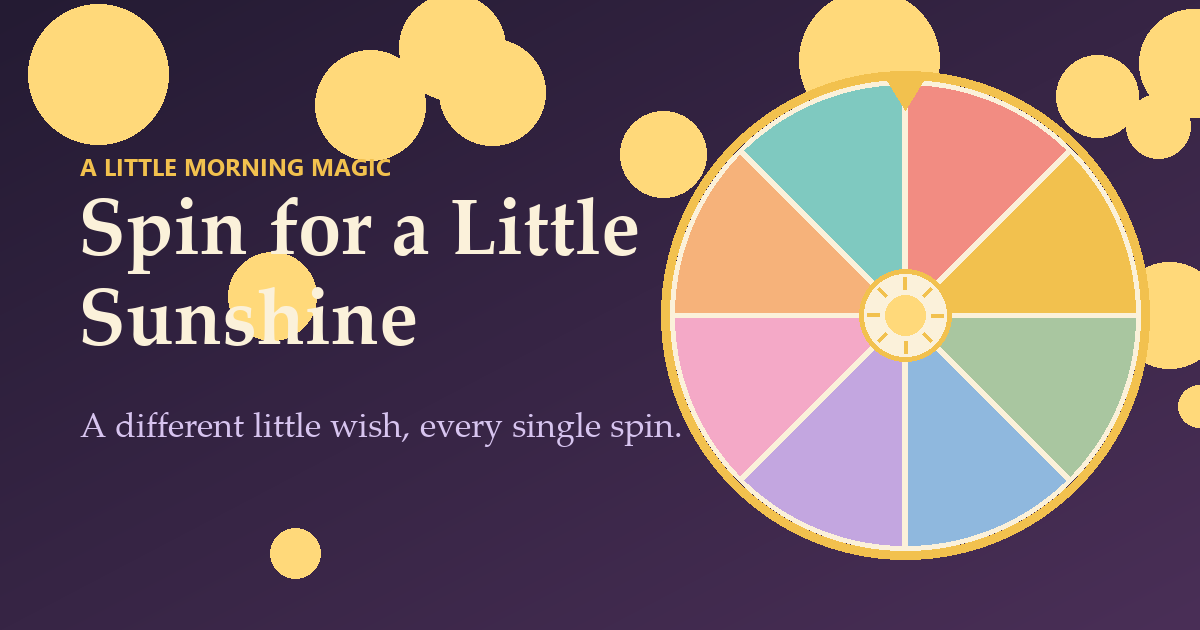
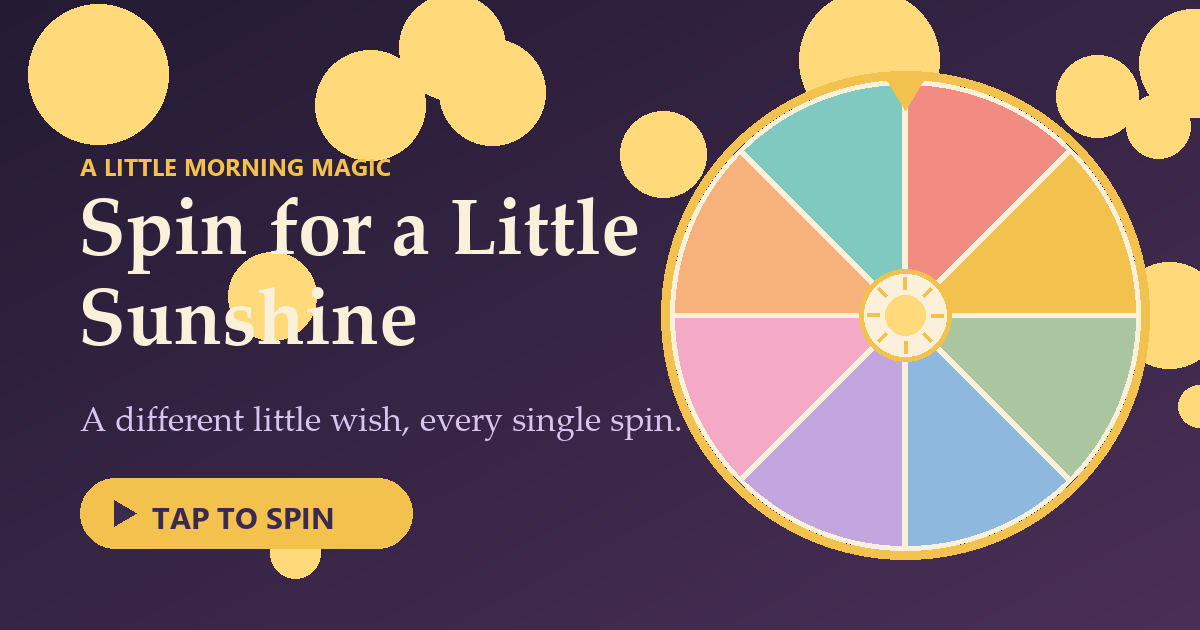
Idle attract-spin + pulsing button + Tap to Spin preview

Changed region(s): [[0.0617, 0.754, 0.37, 0.8746], [0.0617, 0.6333, 0.5858, 0.7238]]

diff --git a/index.html b/index.html
@@ -3,19 +3,17 @@
 <meta property="og:type" content="website">
 <meta property="og:url" content="https://savvywayvacations.com/spin/">
 <meta property="og:title" content="Spin for a Little Sunshine">
-<meta property="og:description" content="Give the wheel a spin and see the little wish waiting for you today.">
+<meta property="og:description" content="Tap to spin the wheel and see the little wish waiting for you today.">
 <meta property="og:image" content="https://savvywayvacations.com/spin/og-image.png">
 <meta property="og:image:width" content="1200">
 <meta property="og:image:height" content="630">
 <meta name="twitter:card" content="summary_large_image">
-<meta name="description" content="Give the wheel a spin and see the little wish waiting for you today.">
+<meta name="description" content="Tap to spin the wheel and see the little wish waiting for you today.">
 <style>
   :root{
     --ground-1:#241b33; --ground-2:#3c2a54; --ground-3:#4a2f57;
     --cream:#FBF1DA; --soft:#d7c4ef; --gold:#F2C14E; --gold-glow:#FFD97A;
     --hub:#FBF1DA; --ink:#3a2a4f;
-    --seg-0:#F28C82; --seg-1:#F2C14E; --seg-2:#A9C6A0; --seg-3:#8FB8DE;
-    --seg-4:#C3A6E0; --seg-5:#F4A9C7; --seg-6:#F6B27A; --seg-7:#7FC9C0;
     --display:"Palatino Linotype",Palatino,"Book Antiqua",Georgia,serif;
     --body:"Segoe UI",system-ui,-apple-system,"Helvetica Neue",sans-serif;
   }
@@ -30,11 +28,10 @@
     display:flex; flex-direction:column; align-items:center; justify-content:center;
     padding:2.2rem 1.1rem 2.8rem; overflow-x:hidden; position:relative;
   }
-  /* soft drifting sparkles */
   .sky{position:fixed; inset:0; pointer-events:none; z-index:0; overflow:hidden}
   .sky i{position:absolute; width:6px; height:6px; border-radius:50%;
     background:radial-gradient(circle,var(--gold-glow),rgba(255,217,122,0) 70%);
-    opacity:.0; animation:twinkle 6s ease-in-out infinite}
+    opacity:0; animation:twinkle 6s ease-in-out infinite}
   @keyframes twinkle{0%,100%{opacity:0; transform:scale(.6)}50%{opacity:.9; transform:scale(1)}}
 
   .wrap{position:relative; z-index:1; width:100%; max-width:520px; text-align:center;
@@ -67,8 +64,13 @@
     transition:transform .15s ease, box-shadow .2s ease}
   button:hover{transform:translateY(-2px); box-shadow:0 12px 28px rgba(242,193,78,.45)}
   button:active{transform:translateY(0)}
-  button:disabled{opacity:.55; cursor:default; transform:none; box-shadow:none}
+  button:disabled{opacity:.55; cursor:default; transform:none; box-shadow:none; animation:none}
   button:focus-visible{outline:3px solid var(--cream); outline-offset:3px}
+  @keyframes pulse{
+    0%,100%{box-shadow:0 8px 22px rgba(242,193,78,.35), inset 0 1px 0 rgba(255,255,255,.5)}
+    50%{box-shadow:0 10px 34px rgba(255,217,122,.9), 0 0 0 7px rgba(255,217,122,.16), inset 0 1px 0 rgba(255,255,255,.5)}
+  }
+  button.pulse{animation:pulse 1.7s ease-in-out infinite}
 
   .result{margin-top:1.15rem; min-height:3.4em; display:flex; align-items:center; justify-content:center}
   .card{font-family:var(--display); font-size:clamp(1.3rem,4.4vw,1.85rem); line-height:1.35;
@@ -83,6 +85,7 @@
     canvas{transition:transform .5s ease}
     .sky i{animation:none; opacity:.5}
     .card{transition:opacity .3s ease}
+    button.pulse{animation:none}
   }
 </style>
 
@@ -122,6 +125,8 @@
   var canvas = document.getElementById("wheel"), ctx = canvas.getContext("2d");
   var card = document.getElementById("card"), btn = document.getElementById("spin");
   var rotation = 0, spinning = false;
+  var reduce = matchMedia("(prefers-reduced-motion: reduce)").matches;
+  var idleRAF = null, idleOn = false, idleLast = 0;
 
   function draw(){
     var S = canvas.width, c = S/2, r = c - 6;
@@ -131,7 +136,6 @@
       ctx.beginPath(); ctx.moveTo(c,c); ctx.arc(c,c,r,a0,a1); ctx.closePath();
       ctx.fillStyle = SEG[i].color; ctx.fill();
       ctx.lineWidth = 4; ctx.strokeStyle = "rgba(251,241,218,.85)"; ctx.stroke();
-      // label, drawn radially
       ctx.save();
       ctx.translate(c,c);
       ctx.rotate((-90 + i*ARC + ARC/2) * Math.PI/180);
@@ -143,27 +147,44 @@
     }
   }
 
+  // gentle "attract" idle spin so the wheel looks alive & ready
+  function idleStep(now){
+    if(!idleOn) return;
+    var dt = now - idleLast; idleLast = now;
+    rotation += dt * 0.014;
+    canvas.style.transform = "rotate(" + rotation + "deg)";
+    idleRAF = requestAnimationFrame(idleStep);
+  }
+  function startIdle(){
+    if(reduce) return;
+    idleOn = true; canvas.style.transition = "none"; idleLast = performance.now();
+    idleRAF = requestAnimationFrame(idleStep);
+  }
+  function stopIdle(){ idleOn = false; if(idleRAF){ cancelAnimationFrame(idleRAF); } }
+
   function spin(){
     if(spinning) return;
-    spinning = true; btn.disabled = true;
+    spinning = true; btn.disabled = true; btn.classList.remove("pulse");
     card.classList.remove("show");
+    stopIdle();
+    canvas.style.transition = reduce ? "transform .5s ease" : "transform 4.4s cubic-bezier(.15,.86,.28,1)";
     var i = Math.floor(Math.random()*N);
     var jitter = (Math.random()*2 - 1) * (ARC*0.34);
-    var landing = (360 - (i*ARC + ARC/2)) % 360;      // rotation (mod 360) that puts segment i under the top pointer
+    var landing = (360 - (i*ARC + ARC/2)) % 360;
     var base = rotation - (rotation % 360);
     var next = base + landing;
-    while(next < rotation + 360*5) next += 360;         // always at least 5 full turns forward
+    while(next < rotation + 360*5) next += 360;
     rotation = next + jitter;
+    void canvas.offsetWidth;                 // reflow so the transition runs from here
     canvas.style.transform = "rotate(" + rotation + "deg)";
     window.setTimeout(function(){
       card.textContent = SEG[i].msg;
       card.classList.add("show");
       btn.textContent = "Spin again";
       btn.disabled = false; spinning = false;
-    }, 4500);
+    }, reduce ? 600 : 4500);
   }
 
-  // build sparkles
   var sky = document.getElementById("sky");
   for(var k=0;k<26;k++){
     var s = document.createElement("i");
@@ -175,6 +196,8 @@
   }
 
   draw();
+  btn.classList.add("pulse");
+  startIdle();
   btn.addEventListener("click", spin);
 })();
 </script>
